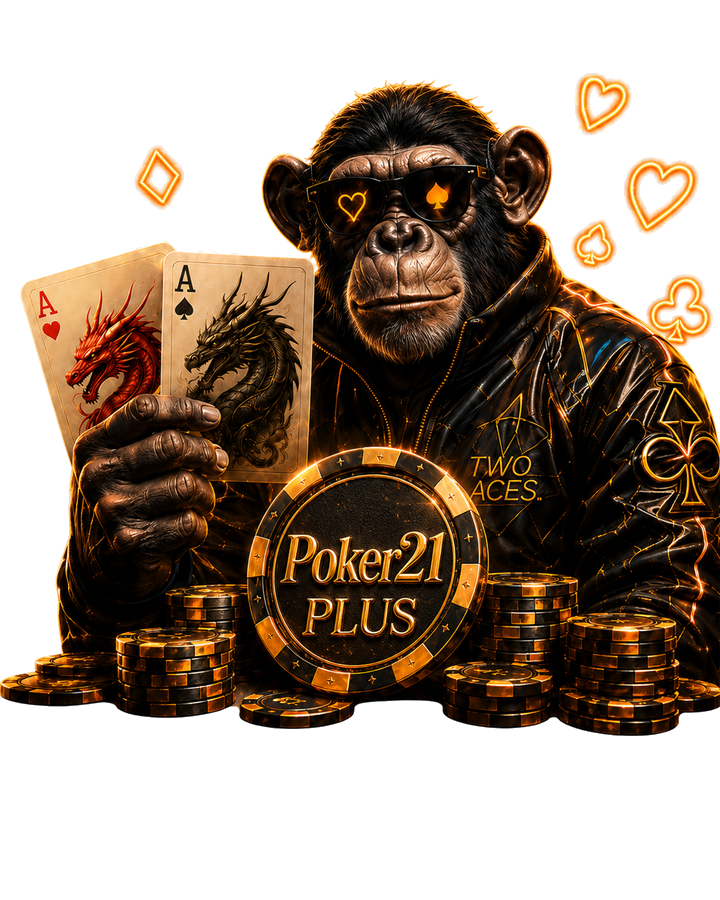
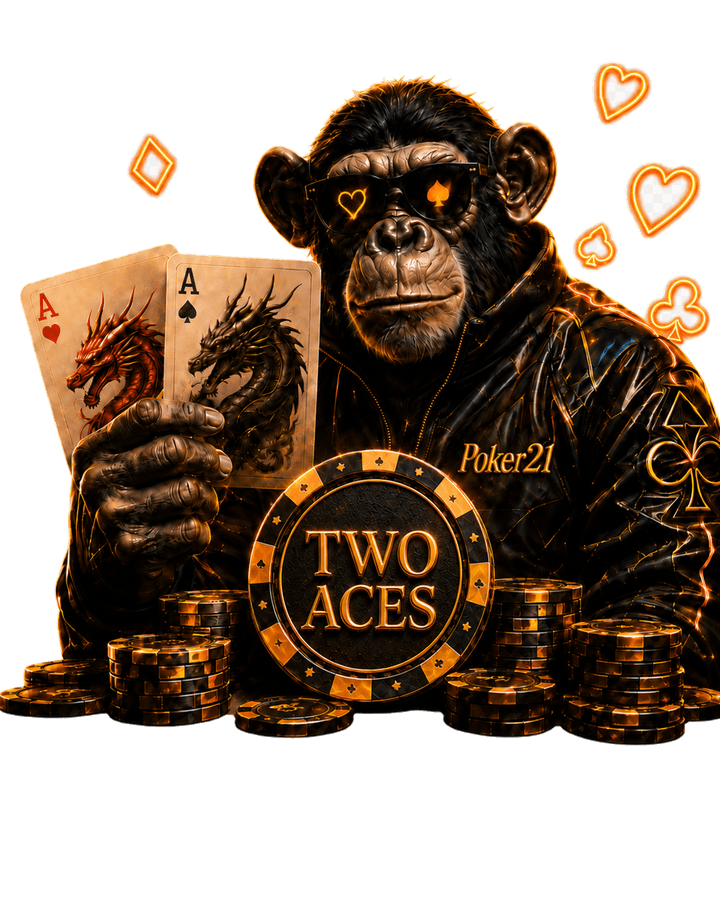
Update daily deal artwork

Changed region(s): [[0.0, 0.0622, 1.0, 0.84], [0.8556, 0.1556, 0.9778, 0.28], [0.7944, 0.0622, 0.9167, 0.1556]]

diff --git a/index.html b/index.html
@@ -601,7 +601,7 @@
               </span>
               <img
                 class="home-daily-deal-hero__image"
-                src="./assets/daily-poker-character-cutout.png?v=3.201"
+                src="./assets/daily-poker-character-cutout.png?v=3.217"
                 alt=""
                 width="720"
                 height="900"
